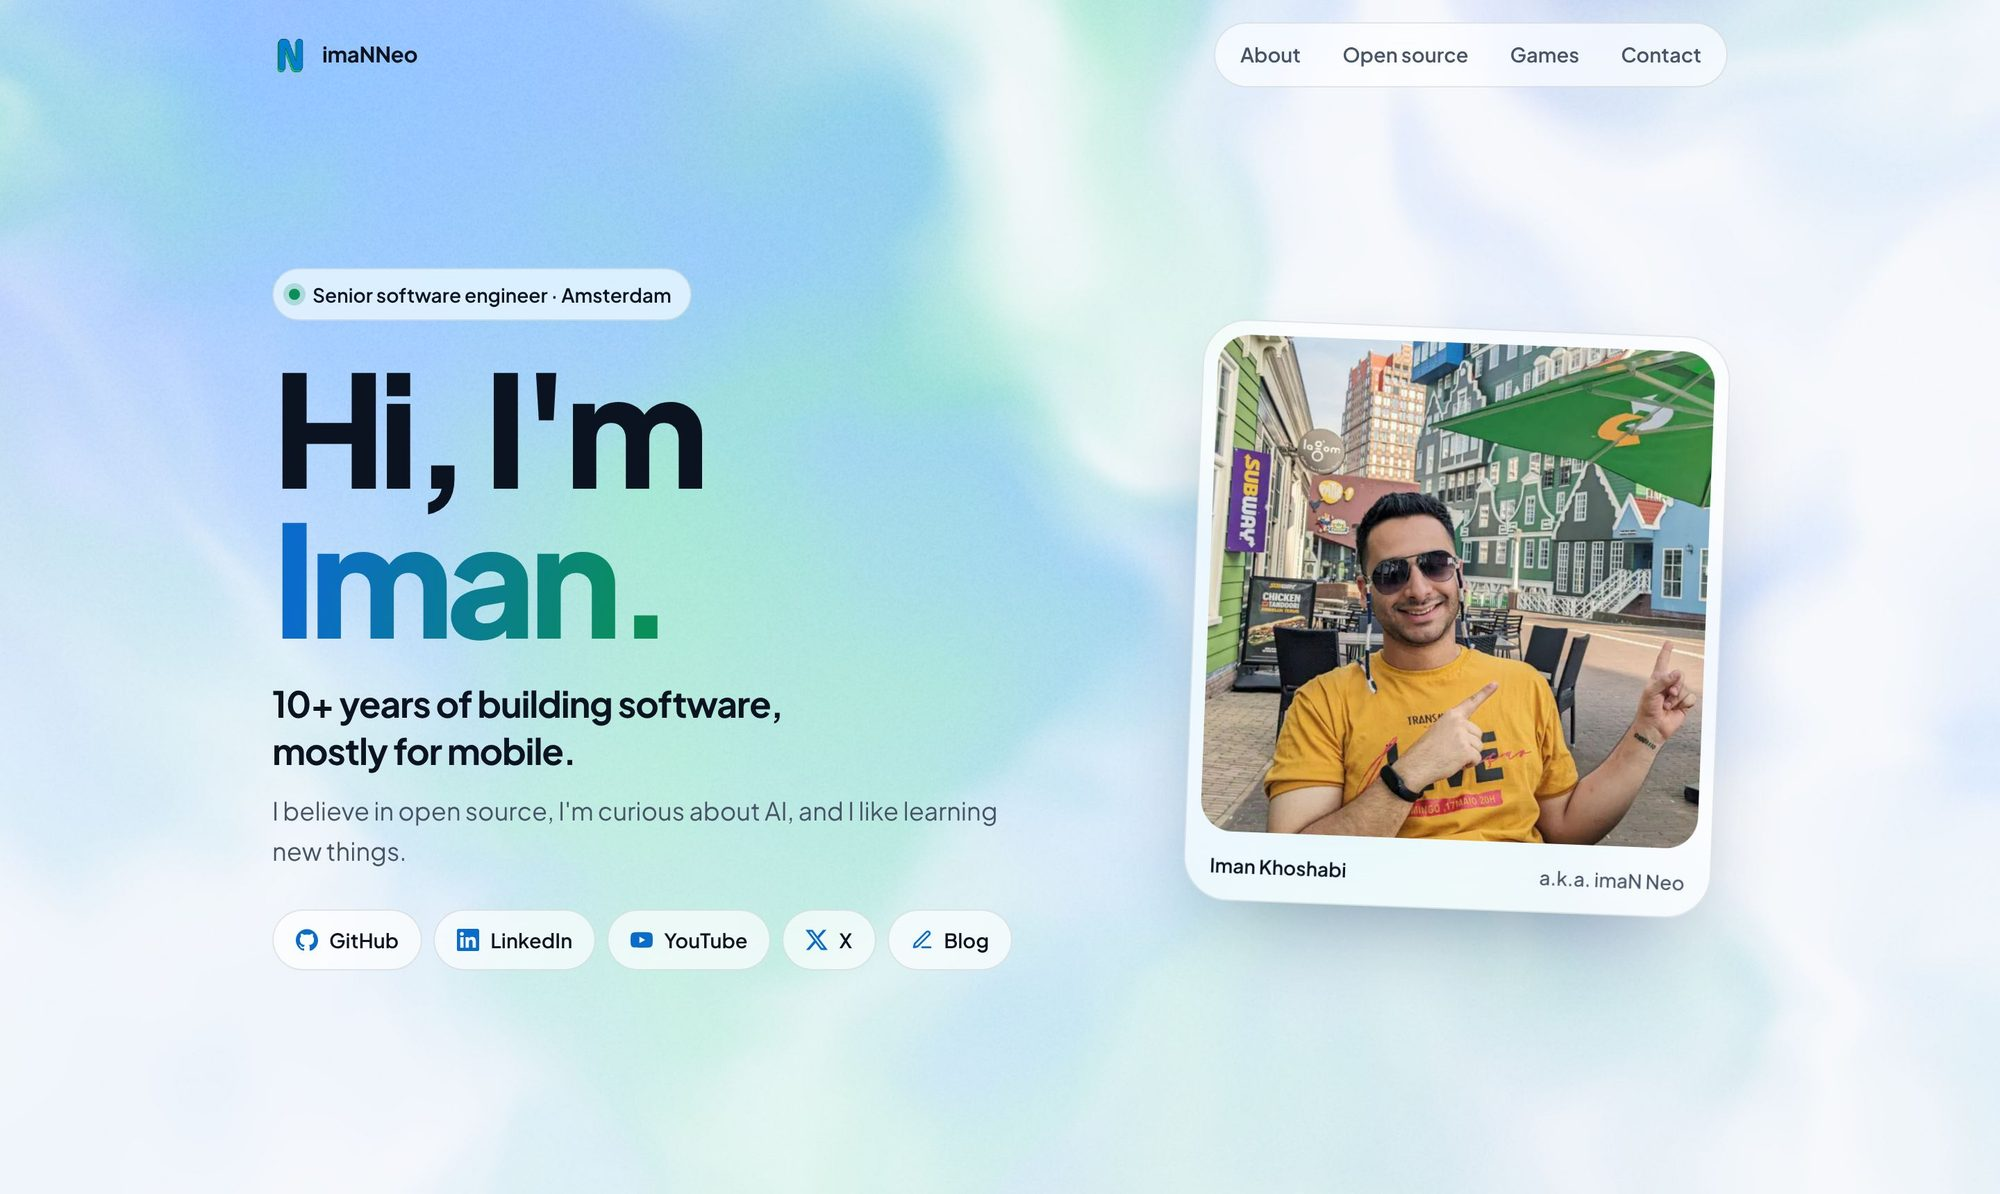
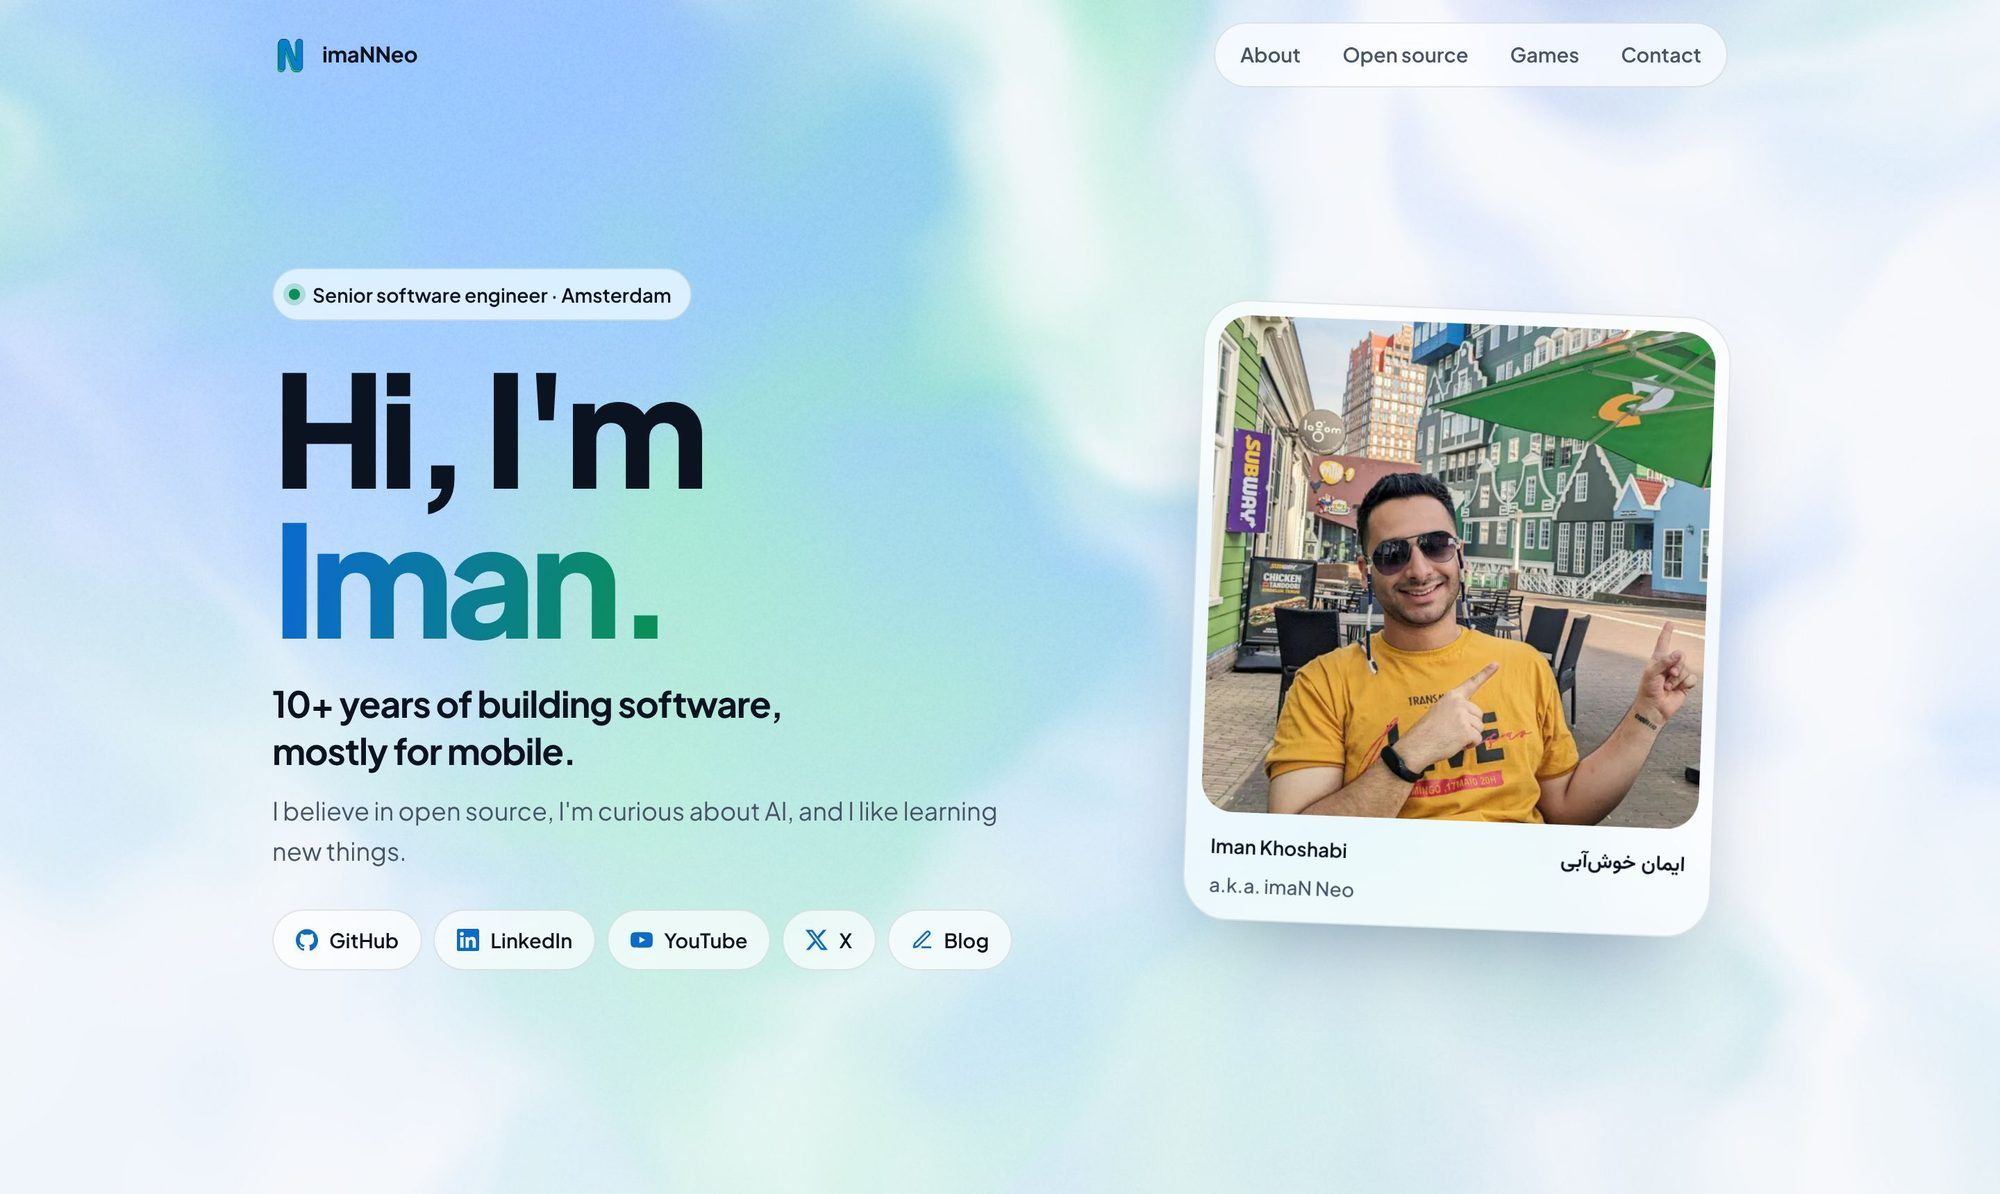
Make the page findable by a search for the name in Persian
The page had no Persian text at all, so a search for the name in Persian
had nothing to match.

- hugo.yaml holds the name in Persian in two spellings: with the half-space
  (shown under the photo) and with a normal space, the way most people type
  it (in the title of the browser tab). Link previews keep the short title.
- The data for search engines now describes the page as the profile of one
  person and lists both spellings among the person's other names.
- The caption under the photo shows the Latin and the Persian name on one
  line and the nickname under them. On the narrowest phones the three lines
  stack, where the caption used to break inside the names.
- README: a section on the name in Persian, and new pictures of the first
  screen.

Claude-Session: https://claude.ai/code/session_013qFz5hfwQjfsRoPXc3qiDH

Changed region(s): [[0.589, 0.2479, 0.868, 0.8057]]

diff --git a/layouts/partials/head.html b/layouts/partials/head.html
@@ -1,10 +1,16 @@
 {{- $p := site.Params -}}
 {{- $title := site.Title -}}
 {{- if not .IsHome }}{{ $title = printf "%s · %s" .Title $p.name }}{{ end -}}
+{{- /*
+  On the home page, the title in the browser tab and in search results also carries the name in Persian,
+  so that a search in Persian finds the page. Link previews keep the short title.
+*/ -}}
+{{- $tab := $title -}}
+{{- if .IsHome }}{{ with or $p.nameFaTyped $p.nameFa }}{{ $tab = printf "%s · %s" $title . }}{{ end }}{{ end -}}
 {{- $photo := resources.Get $p.hero.photo -}}
 <meta charset="utf-8">
 <meta name="viewport" content="width=device-width, initial-scale=1, viewport-fit=cover">
-<title>{{ $title }}</title>
+<title>{{ $tab }}</title>
 <meta name="description" content="{{ $p.description }}">
 {{- if .IsHome }}
 <link rel="canonical" href="{{ .Permalink }}">
@@ -53,7 +59,14 @@
 {{- if .IsHome }}
 {{- $links := slice }}
 {{- range $p.socials }}{{ $links = $links | append .url }}{{ end }}
-{{- $person := dict "@context" "https://schema.org" "@type" "Person" "name" $p.name "alternateName" (slice $p.aka $p.handle) "url" site.BaseURL "jobTitle" $p.jobTitle "sameAs" $links }}
+{{- /*
+  What search engines read about the page: it is the profile of one person, with the other names
+  the person goes by. The name in Persian is among them, in both spellings.
+*/}}
+{{- $names := slice $p.aka $p.handle }}
+{{- range slice $p.nameFa $p.nameFaTyped }}{{ with . }}{{ $names = $names | append . }}{{ end }}{{ end }}
+{{- $person := dict "@type" "Person" "name" $p.name "alternateName" $names "description" $p.description "url" site.BaseURL "jobTitle" $p.jobTitle "sameAs" $links }}
 {{- with $photo }}{{ $person = merge $person (dict "image" .Permalink) }}{{ end }}
-<script type="application/ld+json">{{ $person | jsonify | safeJS }}</script>
+{{- $profile := dict "@context" "https://schema.org" "@type" "ProfilePage" "url" site.BaseURL "name" site.Title "inLanguage" "en" "mainEntity" $person }}
+<script type="application/ld+json">{{ $profile | jsonify | safeJS }}</script>
 {{- end }}

diff --git a/assets/css/main.css b/assets/css/main.css
@@ -75,8 +75,10 @@ h1 span{background:linear-gradient(100deg,var(--acc) 10%,var(--acc-2) 90%);-webk
 
 .photo{margin:0;justify-self:center;width:min(100%,380px);padding:10px 10px 0;border-radius:32px;transform:rotate(2.2deg);box-shadow:0 30px 70px -30px rgba(10,30,70,.45)}
 .photo img{width:100%;height:auto;aspect-ratio:1;object-fit:cover;border-radius:23px}
-.photo figcaption{display:flex;justify-content:space-between;gap:10px;padding:13px 8px 14px;font-size:14px;font-weight:600}
-.photo figcaption span:last-child{color:var(--mut);font-weight:500}
+.photo figcaption{display:flex;flex-wrap:wrap;align-items:baseline;justify-content:space-between;gap:1px 10px;padding:13px 8px 14px;font-size:14px;font-weight:600}
+/* The name in Persian. The page's own font has no Persian letters, so this uses a font the device already has. */
+.cap-fa{font-family:Vazirmatn,Vazir,system-ui,-apple-system,"Segoe UI",Tahoma,sans-serif;font-size:15px}
+.cap-aka{flex-basis:100%;color:var(--mut);font-weight:500}
 
 /* The four cards */
 .secs{display:grid;gap:16px;max-width:980px;margin-inline:auto;padding-bottom:20px}

diff --git a/layouts/index.html b/layouts/index.html
@@ -30,7 +30,8 @@
     {{- $large := .Resize (printf "640x %s q75" $webp) }}
     <figure class="photo glass">
       <img src="{{ $large.RelPermalink }}" srcset="{{ $small.RelPermalink }} 400w, {{ $large.RelPermalink }} 640w" sizes="(max-width: 860px) 280px, 360px" alt="{{ $p.hero.photoAlt }}" width="640" height="640" fetchpriority="high">
-      <figcaption><span>{{ $p.name }}</span><span>a.k.a. {{ $p.aka }}</span></figcaption>
+      {{- /* The name in Persian is real text on the page, so that a search in Persian finds it. */}}
+      <figcaption><span>{{ $p.name }}</span>{{ with $p.nameFa }}<span class="cap-fa" lang="fa" dir="rtl">{{ . }}</span>{{ end }}<span class="cap-aka">a.k.a. {{ $p.aka }}</span></figcaption>
     </figure>
     {{- end }}
   </section>

diff --git a/README.md b/README.md
@@ -31,6 +31,10 @@ The stars, downloads and releases of fl_chart are asked from GitHub and pub.dev 
 
 The page never contains the email address as text, so that robots that collect addresses for spam do not find it. `hugo.yaml` holds it in two parts (`emailName` and `emailHost`), the build writes it into the page in an encoded form, and the button under "Say hi" puts it together in the visitor's browser when they press it.
 
+#### The name in Persian
+
+So that a search in Persian finds the page, `hugo.yaml` holds the name in Persian in two spellings. `nameFa` has the half-space and shows under the photo. `nameFaTyped` has a normal space, the way most people type it, and goes into the title of the browser tab. Search engines also get both as other names of the same person.
+
 #### Running it locally
 
 Install the extended edition of Hugo, version 0.141 or newer (the workflow uses 0.144.2), and run:
